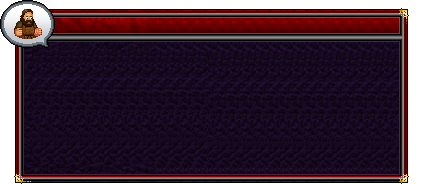
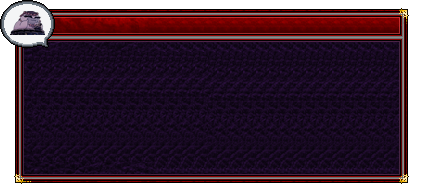
v1.1.1

Changed region(s): [[0.0, 0.0543, 0.1218, 0.2446]]

diff --git a/Game Project/PopUpBox.py b/Game Project/PopUpBox.py
@@ -167,7 +167,7 @@ class ShoppingBox:
         self.bg = pygame.image.load(GamePath.shopBackground)
         self.bg = pygame.transform.scale(self.bg, (ShopSettings.boxWidth, ShopSettings.boxHeight))
         self.npc = npc
-        self.npc_image = pygame.transform.scale(self.npc.image, (DialogSettings.npcWidth,
+        self.npc_image = pygame.transform.scale(pygame.image.load(GamePath.shopNpc), (DialogSettings.npcWidth,
                                                                  DialogSettings.npcHeight))
 
         self.player = player
@@ -207,13 +207,13 @@ class ShoppingBox:
         ##### Your Code Here ↑ #####
 
     def update(self):
-        self.blank = True
+        self.blank = True  # 判断鼠标是否在空白处
         for item in self.items:
-            if pygame.sprite.collide_mask(item, self.mouse):
+            if pygame.sprite.collide_mask(item, self.mouse):  # 鼠标碰到的物品图标变化
                 self.selectedID = item.ID
                 item.image = pygame.transform.scale(item.image, (100, 130))
                 self.blank = False
-            else:
+            else:  # 恢复正常大小
                 item.image = pygame.transform.scale(item.image, (ShopSettings.itemWidth, ShopSettings.itemHeight))
         if pygame.sprite.collide_mask(self.exit, self.mouse):
             self.selectedID = self.exit.ID
@@ -221,7 +221,7 @@ class ShoppingBox:
             self.blank = False
         else:
             self.exit.image = pygame.transform.scale(self.exit.image, (80, 40))
-        if self.blank:
+        if self.blank:  # 鼠标在空白处则物品ID为0
             self.selectedID = 0
 
 

diff --git a/Game Project/Settings.py b/Game Project/Settings.py
@@ -47,7 +47,7 @@ class PlayerDirection(Enum):
 
 class NPCSettings:
     npcSpeed = 1
-    npcWidth = 60
+    npcWidth = 80
     npcHeight = 60
     talkCD = 2 * WindowSettings.fps  # 2秒
 
@@ -152,6 +152,7 @@ class GamePath:
     # player/npc related path
     npc = r".\assets\npc\npc.png"
     shop = r".\assets\npc\shop.png"
+    shopNpc = r".\assets\npc\shopnpc.png"
     player = [
         [r".\assets\player\11.png",
          r".\assets\player\12.png",
